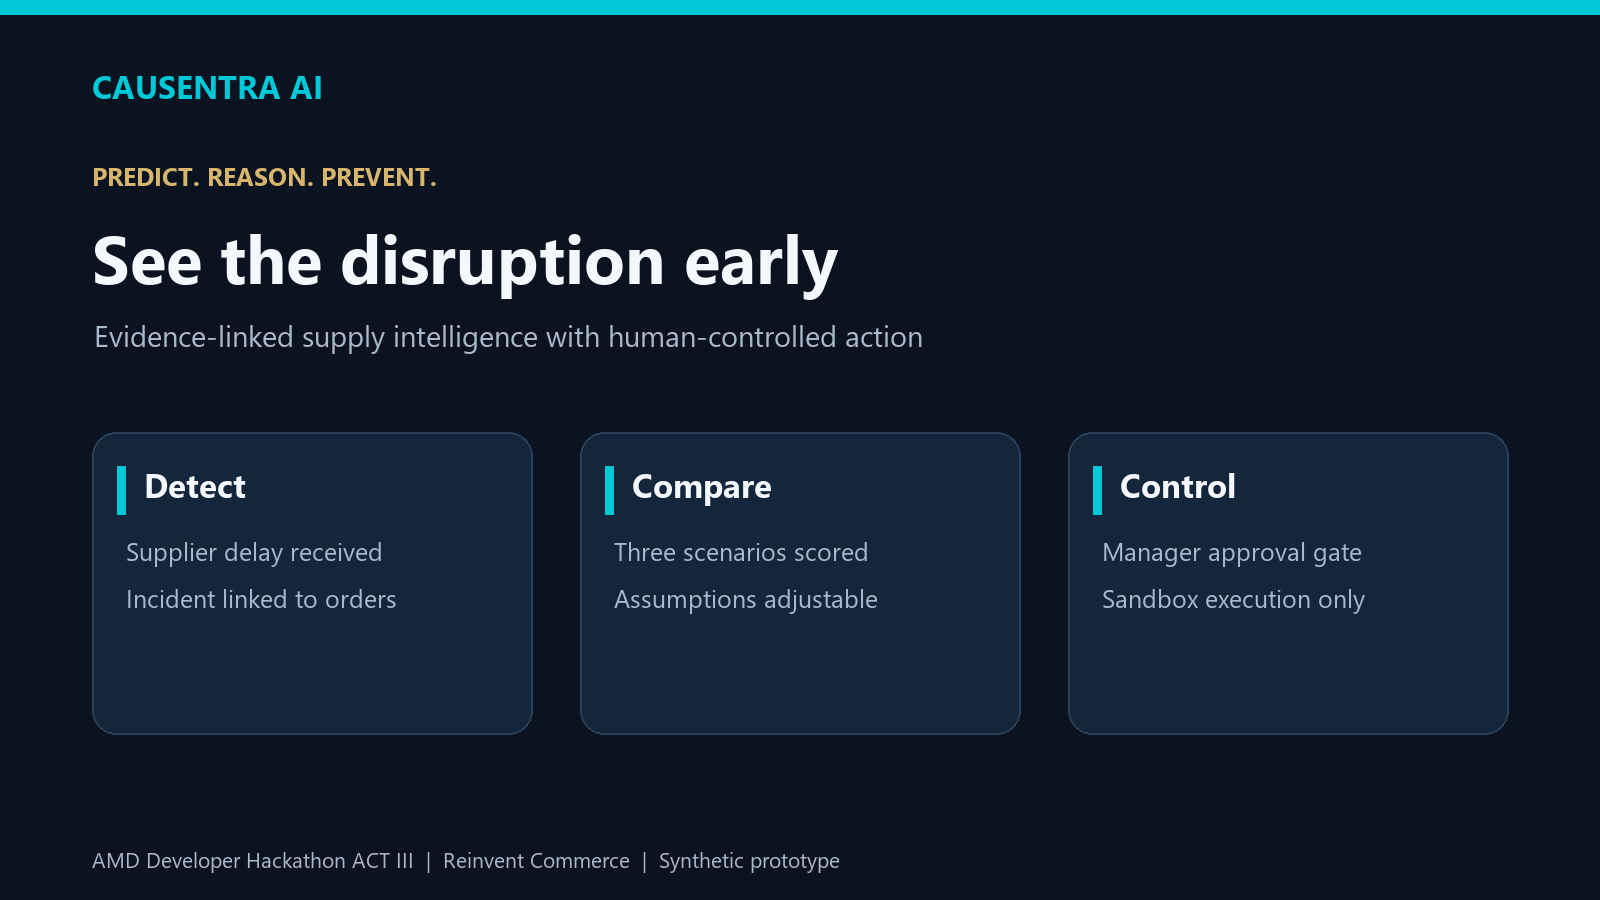
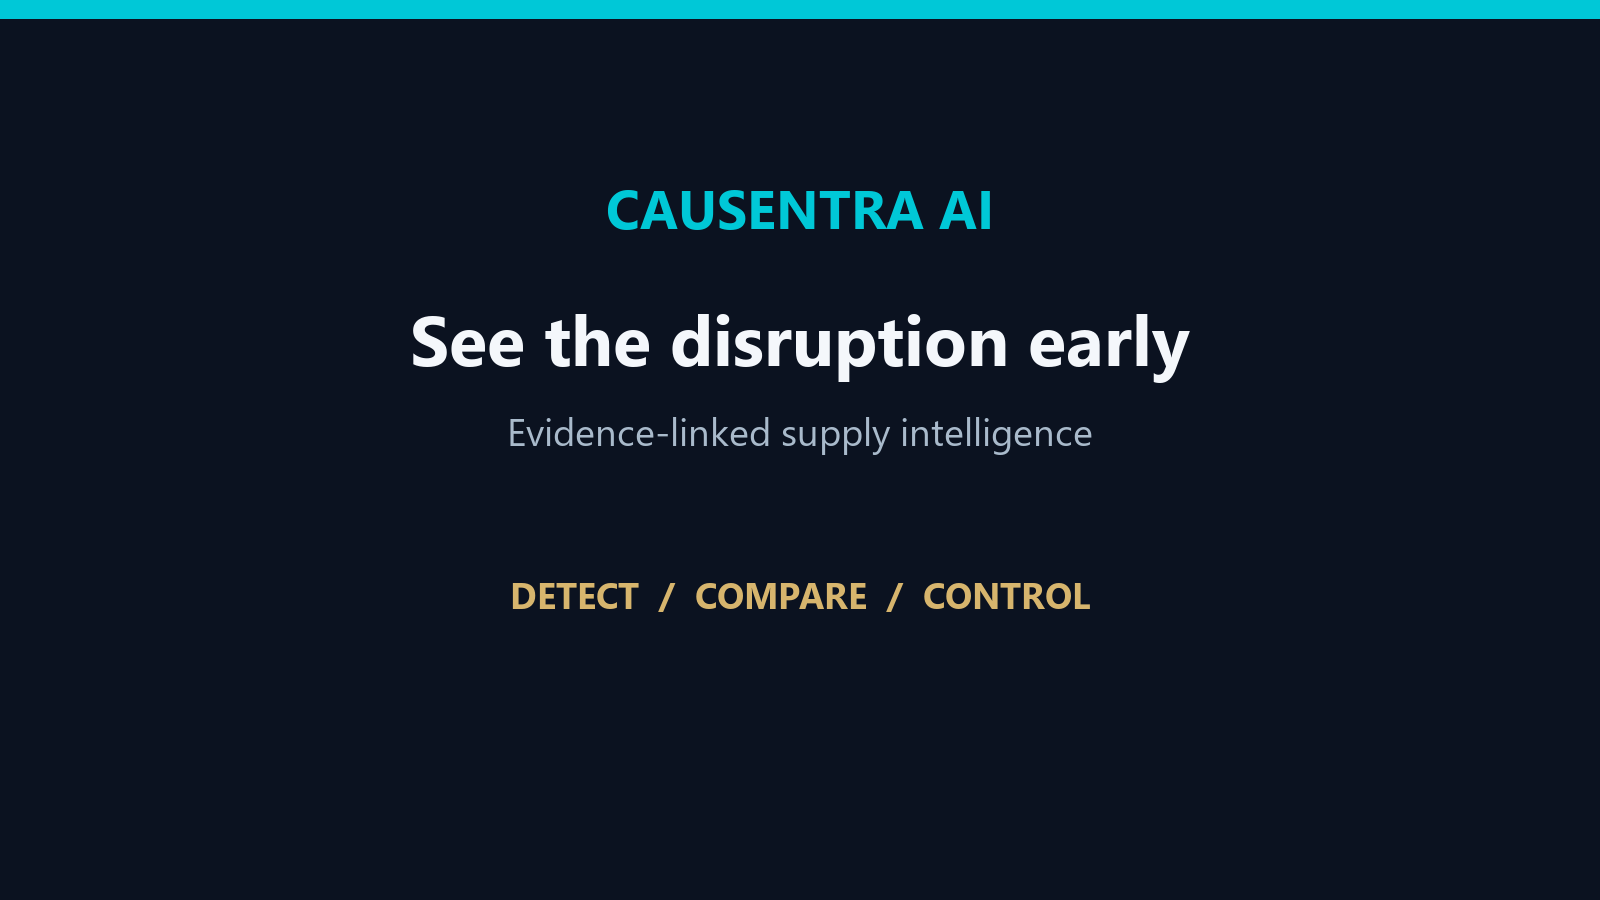
Center cover artwork for submission crop

diff --git a/submission/build_media.py b/submission/build_media.py
@@ -78,7 +78,19 @@ slides.append(im)
 
 for index, image in enumerate(slides, 1):
     image.save(OUT / f"slide-{index:02}.png", optimize=True)
-slides[0].save(OUT / "cover.png", optimize=True)
+cover = Image.new("RGB", (W, H), BG)
+cd = ImageDraw.Draw(cover)
+cd.rectangle((0, 0, W, 18), fill=CYAN)
+for label, y, size, color, heavy in [
+    ("CAUSENTRA AI", 170, 54, CYAN, True),
+    ("See the disruption early", 290, 70, WHITE, True),
+    ("Evidence-linked supply intelligence", 405, 38, MUTED, False),
+    ("DETECT  /  COMPARE  /  CONTROL", 570, 36, GOLD, True),
+]:
+    face = font(size, heavy)
+    width = cd.textbbox((0, 0), label, font=face)[2]
+    cd.text(((W-width)/2, y), label, font=face, fill=color)
+cover.save(OUT / "cover.png", optimize=True)
 
 pdf = canvas.Canvas(str(OUT / "pitch.pdf"), pagesize=(960, 540))
 for index in range(1, len(slides)+1):
